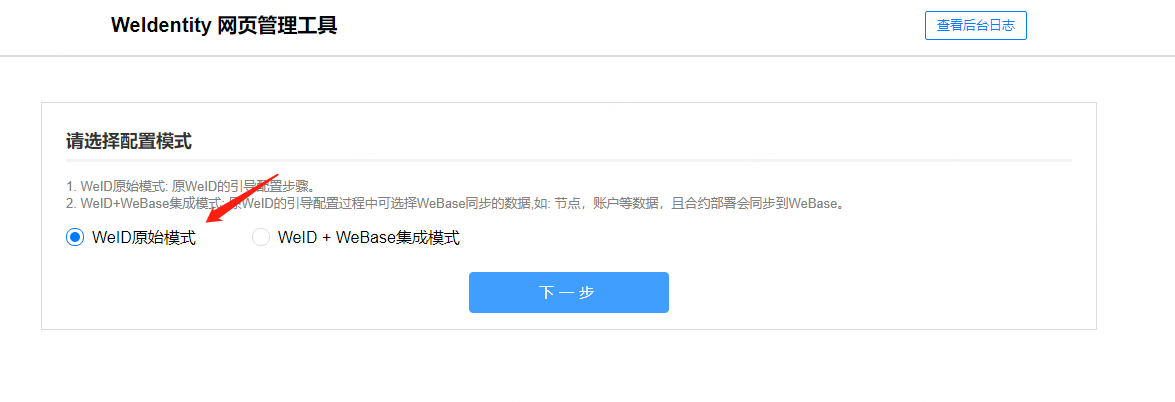
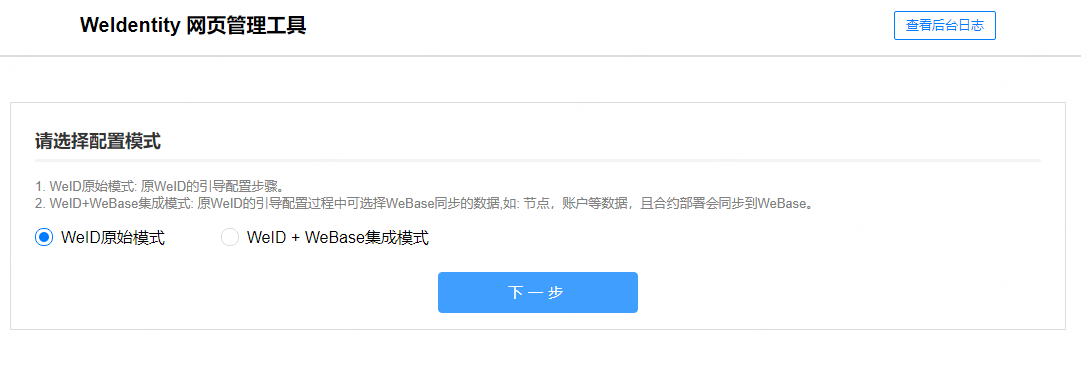
fix image size

diff --git a/readthedocs/zh_CN/docs/deploy-via-web.rst b/readthedocs/zh_CN/docs/deploy-via-web.rst
@@ -48,8 +48,8 @@
 
 此步骤可选择部署时所用的角色, 包括 “联盟链委员会管理员” 和 “非联盟链委员会管理员”, 如下图所示。
 
-   .. image:: images/deploy-via-web-guide-choose-role.png
-      :alt: deploy-via-web-guide-choose-role.png
+   .. image:: images/weid-build-tools-original-step2.png
+      :alt: weid-build-tools-original-step2.png
 
 .. note::
      什么是“联盟链委员会管理员”?
@@ -105,8 +105,8 @@
 
 如下图所示。
 
-   .. image:: images/deploy-via-web-guide-choose-group-id.png
-      :alt: deploy-via-web-guide-choose-group-id.png
+   .. image:: images/weid-build-tools-original-step4.png
+      :alt: weid-build-tools-original-step4.png
 
    - 选择主群组 ID
       * 主群组是联盟链所有机构的节点都需要加入的群组，即 WeIdentity 智能合约部署的群组。需要协调所有部署了区块链节点的机构选择一个群组作为主群组，这样才能保证所有的WeID都是相互可见的；
@@ -126,8 +126,8 @@
    - 配置数据库
       * 配置说明：当需要使用 Transportation, Envidence 异步存证,Persistence 数据存储等相关功能组件时, 数据库才是必须的。
 
-   .. image:: images/deploy-via-web-guide-setup-database.png
-      :alt: deploy-via-web-guide-setup-database.png
+   .. image:: images/weid-build-tools-original-step5.png
+      :alt: weid-build-tools-original-step5.png
 
 .. _weid-create:
 
@@ -141,8 +141,8 @@
 
    - 推荐"系统自动创建公私钥"：在部署工具的安装目录下，有一个目录： `./output/admin/`， 会存放自动生成的私钥文件, 请妥善保管。
 
-   .. image:: images/deploy-via-web-guide-create-admin-weid.png
-      :alt: deploy-via-web-guide-create-admin-weid.png
+   .. image:: images/weid-build-tools-original-step6.png
+      :alt: weid-build-tools-original-step6.png
 
 “WeID + WeBase集成模式”, 如下图所示：
 
@@ -161,8 +161,8 @@
 
 此步骤将部署 WeIdentity 智能合约到指定的区块链上, 如图所示。
 
-   .. image:: images/weid-build-tools-and-webase-step7.png
-      :alt: weid-build-tools-and-webase-step7.png
+   .. image:: images/weid-build-tools-original-step7.png
+      :alt: weid-build-tools-original-step7.png
 
    - 配置链 ID (chain-id)
          * 配置说明：\ `「什么是链 ID (Chain Id) ?」 <./weidentity-spec.html#id4>`_\
